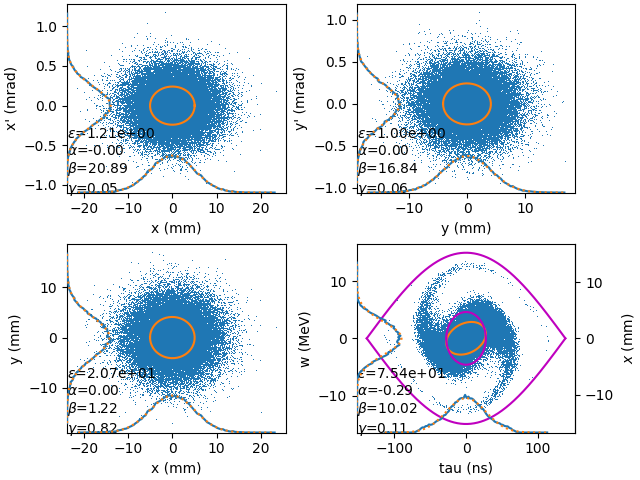
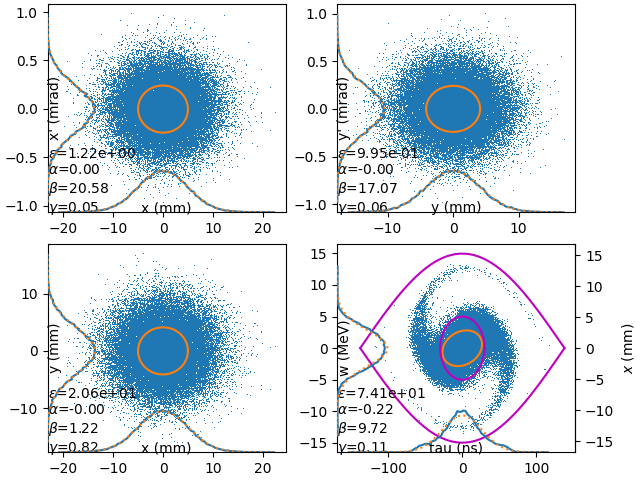
expanded plot area

diff --git a/sylt/plotting.py b/sylt/plotting.py
@@ -47,11 +47,10 @@ def plot_phase_space(data, keys, shape=None, title=None):
         ax.plot(x1[ind], x2[ind], ',')
         ax.plot(xr(t), yr(t))
 
-        ax.set_xlabel(k1)
-        ax.set_ylabel(k2)
-
         ax.annotate(caption, (0, 0), xycoords='axes fraction')
-
+        ax.annotate(k1, (0.5, 0), xycoords='axes fraction', horizontalalignment='center')
+        ax.annotate(k2, (0, 0.5), xycoords='axes fraction', rotation=90, verticalalignment='center')
+        
         plot_projections(x1[ind], x2[ind], ax)
 
     return axes
